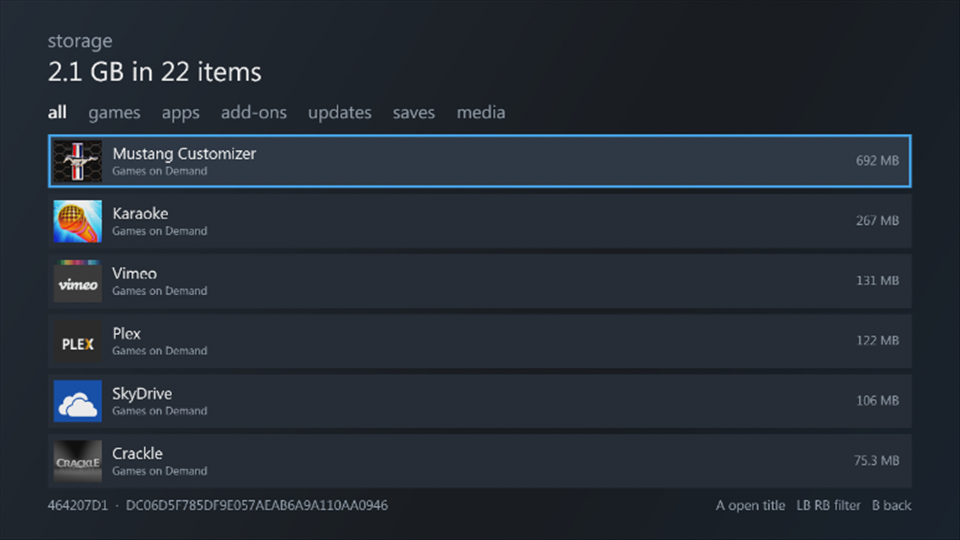
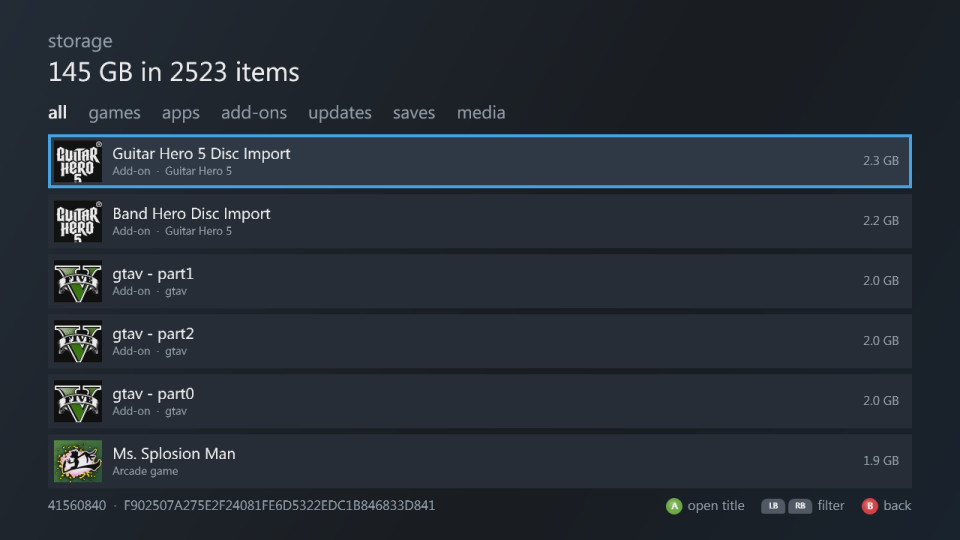
Update the user docs and take their screenshots on a console
The screenshots are new, from a console, with games as covers and as a
list, a title's achievements and content, media, the theme page and
editor, storage and the welcome screen. The docs now cover the themes and
theme editor, a theme and library for each profile, the pause before
moving past a section's end, X and Y on me, a title page's lists, what a
start reads and what Refresh library does, and the Data folder's files.

diff --git a/docs/settings.md b/docs/settings.md
@@ -1,5 +1,7 @@
 # Settings
 
+![Settings](images/settings.png)
+
 | Setting | |
 |---|---|
 | **Theme** | The wallpapers and colours: see [Themes](#themes) |
@@ -10,7 +12,7 @@
 | **Start the FTP server with Silverdash** | Starts it whenever Silverdash360 starts |
 | **FTP user name**, **FTP password** | What FTP clients log in with |
 | **Welcome screen** | The basic settings, as at the first start: see [Welcome screen](#welcome-screen) |
-| **Refresh library** | Reads every package again, for when something is missing or out of date |
+| **Refresh library** | Reads every package again, add-ons, saves and videos too, for when something is missing or out of date |
 | **Sign in** | Signs a profile in |
 | **System version**, **Language**, **Console time** | The console's |
 | **Running as title**, **Running from** | The title ID Silverdash360 runs as, and its folder |
@@ -20,26 +22,35 @@
 
 ## Welcome screen
 
-The welcome screen opens at the first start with the basic settings: whether the FTP server starts with Silverdash360 and, once it does, its user name and password. It opens again after an update that adds basic settings, with those marked **new**. Continue or B goes on to Silverdash360. **Welcome screen** in settings opens it any time.
+![Welcome](images/welcome.png)
+
+The welcome screen, **Welcome to Silverdash360**, opens at the first start with the basic settings: whether the FTP server starts with Silverdash360 and, once it does, its user name and password. It opens again after an update that adds basic settings, with those marked **new**. Continue or B goes on to Silverdash360. **Welcome screen** in settings opens it any time.
 
 ## Themes
 
-The theme follows the console dashboard's own by default, so your wallpapers come with you. **Theme** lists the themes built into the console's dashboard and those installed on the console; A uses one. The built-in themes (Spectrum, Day and Night) are read from the console's own dashboard files, so they're the ones your dashboard version has; the dashboard's Xbox 360 theme isn't among those files, so Silverdash360 shows its own colours for it. A theme's four wallpapers go to the sections as they went to the first dashboard's blades: the first (Xbox Live's) to home, apps and me, the second to games, the third to media and the fourth (System's) to settings. Its colours go to Silverdash360's. **Silverdash** is Silverdash360's own colours and no wallpaper. **Blades (Default)** and **Blades (Carbon)** are colours after the two styles of the first Xbox 360 dashboard, with no wallpaper; as its blades did, each section has a colour of its own: me is Xbox Live's orange, games green, media blue, apps the Marketplace blade's and settings the System blade's. Picture themes made in the Xbox Dashboard from your own pictures work too. If the dashboard's theme for your profile is a theme package that's no longer installed, such as one from an older dashboard, Silverdash360 shows its own colours and settings names the missing theme.
+![Theme](images/theme.png)
+
+The theme follows the console dashboard's own by default (**Same as the Xbox Dashboard**), so your wallpapers come with you. **Theme** lists the themes built into the console's dashboard and those installed on the console; A uses one. Each profile keeps the theme it picked, and so does nobody signed in: signing out shows the one picked with nobody signed in, or Silverdash360's own colours if none was. The built-in themes (Spectrum, Day and Night) are read from the console's own dashboard files, so they're the ones your dashboard version has; the dashboard's Xbox 360 theme isn't among those files, so Silverdash360 shows its own colours for it. A theme's four wallpapers go to the sections as they went to the first dashboard's blades: the first (Xbox Live's) to home, apps and me, the second to games, the third to media and the fourth (System's) to settings. Its colours go to Silverdash360's. **Silverdash** is Silverdash360's own colours and no wallpaper. **Blades (Default)** and **Blades (Carbon)** are colours after the two styles of the first Xbox 360 dashboard, with no wallpaper; as its blades did, each section has a colour of its own: me is Xbox Live's orange, games green, media blue, apps the Marketplace blade's and settings the System blade's. Picture themes made in the Xbox Dashboard from your own pictures work too. If the dashboard's theme for your profile is a theme package that's no longer installed, such as one from an older dashboard, Silverdash360 shows its own colours and settings names the missing theme.
 
 ## Theme editor
 
 **Edit current theme**, the first row of **Theme**, makes a theme of your own, starting from the one shown:
+
+![Theme editor](images/theme-editor.png)
+
 
 - **Colours**: the accent, secondary text, panels, the selected panel and the three colours of the background. A on one opens a grid of colours; the dashboard takes each on as you move, A keeps it and B puts the old one back.
 - **Wallpapers 1 to 4**: for home, apps and me, for games, for media, and for settings, as a theme's are. A wallpaper can be none, a JPEG or PNG picture on the console's drives (up to 4 MB), or any wallpaper of the built-in and installed themes, shown behind the list as you pick.
 - **Save** makes it the custom theme of the profile signed in (or of nobody signed in, when nobody is) and uses it. **Save for nobody signed in too** also keeps it for when nobody is signed in.
 - **Save as...** asks for a name and keeps it in Silverdash360 for everyone on the console; it's listed in **Theme** under that name. X on a saved theme there, twice, deletes it.
 
-B leaves without saving and puts the colours back. Once saved, **Custom theme** in the theme list picks it again; for a profile without one, it's the console dashboard's theme.
+B leaves without saving and puts the colours back. Once saved, **Custom theme** in the theme list picks it again; it's listed for a profile that has one, or for nobody signed in when there's one for nobody.
 
 ## Storage
 
-Everything stored on the console, largest first, by kind: games, apps, add-ons, title updates, saves and media. LB and RB filter it. A opens the title a package belongs to.
+![Storage](images/storage.png)
+
+Everything stored on the console, largest first, by kind: games, apps, add-ons, title updates, saves and media. LB and RB filter it. A opens the title a package belongs to. Add-ons and saves are as Silverdash360 last read them: when you opened their title's page, or at the last **Refresh library**.
 
 ## File browser
 

diff --git a/README.md b/README.md
@@ -6,10 +6,12 @@ A dashboard for the Xbox 360. It lists the games and apps on your console, with 
 
 | | |
 |---|---|
-| ![Home](docs/images/home.png) | ![Apps as covers](docs/images/apps-covers.png) |
-| Home: recently played and the apps | A shelf of covers |
-| ![Apps as a list](docs/images/apps-list.png) | ![Title details](docs/images/title-details.png) |
-| The same shelf as a list | A title's details, stored content and achievements |
+| ![Home](docs/images/home.png) | ![Games as covers](docs/images/games-covers.png) |
+| Home: recently played and the apps | A shelf of covers, with a letter heading each letter |
+| ![Games as a list](docs/images/games-list.png) | ![Title details](docs/images/title-details.png) |
+| The same shelf as a list | A title's details and achievements |
+| ![Media](docs/images/media.png) | ![Theme](docs/images/theme.png) |
+| The drives, media servers and downloaded videos | Themes, and a theme editor of your own |
 
 ## Features
 
@@ -17,8 +19,8 @@ A dashboard for the Xbox 360. It lists the games and apps on your console, with 
 - **Jump back in** with the titles you played last, and the disc in the drive first.
 - **Covers or a list**, sorted and filtered as you like, with letters to jump through a long shelf.
 - **Media**: music, videos and pictures from the drives, data discs and DLNA media servers such as Plex, and the videos you downloaded from Xbox LIVE.
-- **Your profile**, gamerscore and achievements.
-- **Themes**: the wallpapers of the console dashboard's themes.
+- **Your profile**, gamerscore and achievements. Each profile has its own saves, theme and played titles, and it works with nobody signed in too.
+- **Themes**: the console dashboard's themes with their wallpapers, its built-in Spectrum, Day and Night, the first dashboard's Blades colours, and a theme editor to mix your own.
 - **Search**, **storage**, a **file browser** and an **FTP server**.
 - **Updates itself** when there's a new version.
 
@@ -41,10 +43,11 @@ The [installation guide](https://digiex.github.io/Silverdash360/install/) has ea
 | A | Play on home; open or select elsewhere |
 | B | Back |
 | START | A title's details on home |
-| X | Search |
-| Y | Open or close the disc tray on home; covers or a list on the shelves |
+| X | Search; your friends on me |
+| Y | Open or close the disc tray on home; covers or a list on the shelves; sign in on me |
 | BACK | A shelf's options |
-| LB, RB | Switch sections |
+| LB, RB | Switch sections at once |
+| Left, right at a section's end | The next section, after a short pause |
 | LT, RT | A screen back or forward |
 
 More in the [documentation](https://digiex.github.io/Silverdash360/getting-around/).
@@ -61,4 +64,4 @@ It's built with [Silverlight360](https://github.com/Digiex/Silverlight360), whic
 
 ## Trademarks
 
-Xbox, Xbox 360, Xbox LIVE and Silverlight are trademarks of the Microsoft group of companies. Plex and the names and art of other apps shown in the screenshots belong to their owners. Silverdash360 isn't affiliated with or endorsed by any of them.
+Xbox, Xbox 360, Xbox LIVE and Silverlight are trademarks of the Microsoft group of companies. Plex, Bungie and the names and art of the other games, apps and themes shown in the screenshots belong to their owners. Silverdash360 isn't affiliated with or endorsed by any of them.

diff --git a/docs/getting-around.md b/docs/getting-around.md
@@ -1,6 +1,8 @@
 # Getting around
 
-Silverdash360 has six sections across the top: **home**, **games**, **apps**, **media**, **me** and **settings**. LB and RB go from one to the next, as does moving past the left or right end of a section. The bar at the bottom says what the buttons do where you are.
+Silverdash360 has six sections across the top: **home**, **games**, **apps**, **media**, **me** and **settings**. LB and RB go from one to the next at once, and round from settings to home. Moving past the left or right end of a section goes to the next one too, but only as a move of its own: holding the D-pad or the stick, or pressing it again and again to run through a shelf, stops at the shelf's end, and a press after a short pause goes on. The bar at the bottom says what the buttons do where you are.
+
+![Home](images/home.png)
 
 ## Controls
 
@@ -10,8 +12,8 @@ Silverdash360 has six sections across the top: **home**, **games**, **apps**, **
 | A | Play on home; open or select elsewhere. On the games and apps shelves, the shelf's options choose whether A plays or shows a title's details |
 | B | Back |
 | START | The other of A: a title's details on home; on the shelves, play or details, whichever A isn't |
-| X | Search |
-| Y | Open or close the disc tray on home; switch between covers and a list on the shelves; sign in on the profile |
+| X | Search; your friends on me |
+| Y | Open or close the disc tray on home; switch between covers and a list on the shelves; sign in on me |
 | BACK | The shelf's options on the games and apps shelves |
 | LB, RB | Switch sections, and lists and filters on other pages |
 | LT, RT | A screen back or forward on the shelves |
@@ -22,11 +24,17 @@ Silverdash360 has six sections across the top: **home**, **games**, **apps**, **
 
 ## Me
 
-Your gamertag, gamer picture, gamerscore, motto and zone, and the titles you've played with your progress in each. Y signs in if nobody is.
+Your gamertag, gamer picture, gamerscore, motto and zone, and the titles you've played with your progress in each. A shows a title's details, X your friends, and Y signs in, or signs in another profile.
+
+![Me](images/profile.png)
+
+Silverdash360 works with nobody signed in: the games, apps and media are the console's. Signing in or out, here or from the Guide, shows that profile's saves, theme and played titles straight away, without reading the whole console again. Each profile keeps its own, and so does nobody signed in.
 
 ## Search
 
 X opens search from home and the shelves. Type with the on-screen keyboard (A types, X deletes, Y adds a space), and the results update as you type: titles by name, publisher or title ID. Move right to the results.
+
+![Search](images/search.png)
 
 ## When things are busy
 

diff --git a/docs/index.md b/docs/index.md
@@ -4,22 +4,27 @@ Silverdash360 is a dashboard for the Xbox 360: it lists the games and apps on yo
 
 | | |
 |---|---|
-| ![Home](images/home.png) | ![Apps as covers](images/apps-covers.png) |
-| Home: recently played and the apps | A shelf of covers |
-| ![Apps as a list](images/apps-list.png) | ![Title details](images/title-details.png) |
-| The same shelf as a list | A title's details, stored content and achievements |
+| ![Home](images/home.png) | ![Games as covers](images/games-covers.png) |
+| Home: recently played and the apps | A shelf of covers, with a letter heading each letter |
+| ![Games as a list](images/games-list.png) | ![Title details](images/title-details.png) |
+| The same shelf as a list | A title's details and achievements |
+| ![Media](images/media.png) | ![Profile](images/profile.png) |
+| The drives, media servers and downloaded videos | Your profile and the titles you've played |
 | ![Search](images/search.png) | ![Settings](images/settings.png) |
 | Search as you type | Settings |
+| ![Theme](images/theme.png) | ![Theme editor](images/theme-editor.png) |
+| Themes | The theme editor |
 
 ## What it does
 
 - **Games and apps**: everything installed on the hard drive and USB drives, Games on Demand, Arcade, Indie and demos, original Xbox games, and homebrew in `Apps` and `Games` folders, with box art and store details from the Xbox Marketplace. [Games and apps](games-and-apps.md)
 - **Jump back in**: the titles you played last, and the disc in the drive, on the home page.
 - **Media**: music, videos and pictures from the drives, data discs and DLNA media servers such as Plex, and the videos you downloaded from Xbox LIVE. [Media](media.md)
-- **Your profile**: gamertag, gamerscore and achievements.
-- **Themes**: the wallpapers of the console dashboard's themes, a section each. [Settings](settings.md#themes)
+- **Your profile**: gamertag, gamerscore and achievements. Each profile has its own saves, theme and played titles, and Silverdash360 follows you signing in and out from the Guide. It works with nobody signed in too. [Getting around](getting-around.md#me)
+- **Themes**: the console dashboard's themes with their wallpapers, its built-in Spectrum, Day and Night, the first dashboard's Blades colours, and a theme editor to mix your own, each profile with its own. [Settings](settings.md#themes)
 - **FTP server, file browser and storage**: the console's drives over the network, every file on them, and what takes the space. [Settings](settings.md)
 - **Updates**: it tells you when there's a new version and installs it. [Updating](updating.md)
+- **Welcome screen**: the basic settings at the first start, and the new ones after an update. [Settings](settings.md#welcome-screen)
 
 ## Getting started
 

diff --git a/docs/games-and-apps.md b/docs/games-and-apps.md
@@ -2,6 +2,11 @@
 
 The **games** and **apps** sections are shelves of everything installed on the console's hard drive and USB drives. Each title has its box art from the Xbox Marketplace, where the console's own dashboard gets it, or the package's own picture.
 
+| | |
+|---|---|
+| ![Games as covers](images/games-covers.png) | ![Games as a list](images/games-list.png) |
+| ![Apps as covers](images/apps-covers.png) | ![Apps as a list](images/apps-list.png) |
+
 ## What's listed
 
 - **Xbox 360 games**: installed discs, Games on Demand and Arcade, Indie and XNA games and demos.
@@ -10,6 +15,8 @@ The **games** and **apps** sections are shelves of everything installed on the c
 - **Homebrew**: a `default.xex` in each folder of a drive's `Apps` and `Games` folders (`Hdd1`, `Usb0` to `Usb2`), and `.xex` files right in `Apps`. Each is named after its folder, unless a package or your profile names it.
 - **QuickBoot shortcuts** show as the app or game they start; a shortcut and the folder it starts are listed once.
 - **Titles with nothing to start**, such as a game with only saves or add-ons left, are hidden until you show them with the shelf's options.
+
+Silverdash360 keeps what it read, so it starts quickly. At a start it shows the library it saved and looks only for what starts games and apps, and for themes, as they come and go; a title's add-ons, updates and saves are listed again when you open its page. **Refresh library** in settings reads everything again.
 
 Box art and store details are downloaded in the background and kept in the `Data\Art` folder, so they're there without the internet afterwards. A title the Marketplace doesn't know gets a cover of its kind with its icon or its initials.
 
@@ -33,7 +40,11 @@ BACK on a shelf opens its options. A changes a setting, X steps it back, and B i
 
 ## A title's details
 
-A title's page has its backdrop, the store's description, developer, genre and release date, what's stored for it (the game, title updates, add-ons, saves) with sizes, and your achievements in it. **Play** starts it.
+A title's page has its backdrop, the store's description, developer, genre and release date, and two lists that LB and RB switch between: **achievements**, your progress in it, when you're signed in and have played it, and **content**, what's stored for it (the game, title updates, add-ons, saves) with sizes. **Play** starts it, with **Play from disc** when its disc is in the drive and a **Play disc** for each disc of a game with several; **Achievements** and **Stored content** go to the lists.
+
+| | |
+|---|---|
+| ![Achievements](images/title-details.png) | ![Stored content](images/title-content.png) |
 
 ## Discs
 

diff --git a/docs/troubleshooting.md b/docs/troubleshooting.md
@@ -12,10 +12,15 @@
 - **Refresh library** in settings reads every package again.
 - Homebrew is looked for in the `Apps` and `Games` folders of `Hdd1` and `Usb0` to `Usb2`, a folder each with a `default.xex` in it.
 
+## An add-on, save or downloaded video is missing
+
+A start looks only for new games, apps and themes. A title's add-ons, updates and saves are read again when you open its page; **Refresh library** in settings reads everything, downloaded videos too.
+
 ## The box art or the theme is missing
 
 - Box art comes from the Xbox Marketplace the first time a title is shown, so the console needs the internet once. A title the Marketplace doesn't have gets a cover of its kind.
-- Right after a start, the theme shows once the library has been read.
+- The theme in use is kept, so it shows straight away at a start. The first time, or after picking another, it shows once its package has been found.
+- Each profile has its own theme, and so has nobody signed in: see [Themes](settings.md#themes).
 
 ## A video doesn't play
 
@@ -32,8 +37,12 @@ Silverdash360 keeps its settings, the library it read, the box art and its logs 
 | In `Data` | |
 |---|---|
 | `settings.txt` | Your shelf options and other settings |
+| `library.bin` | The console's games, apps and other packages it read, the same for every profile, so it starts quickly |
+| `Profiles` | Each profile's own packages, such as its saves and themes, a file per profile |
 | `ThemeChoice` | The theme each profile picked, and the one for nobody signed in |
-| `library.bin` | The library it read, so it starts quickly |
+| `CurrentTheme` | The theme in use for each profile, so it shows straight away |
+| `CustomTheme` | The themes made in the theme editor, each profile's and nobody signed in's |
+| `SavedThemes` | The themes saved with **Save as...**, for everyone |
 | `Art` | The box art and store details it downloaded |
 | `Logs` | What it did: `silverdash.log` for this run, `silverdash.log.last` for the one before |
 

diff --git a/docs/media.md b/docs/media.md
@@ -2,9 +2,12 @@
 
 The **media** section lists where your music, videos and pictures are:
 
+![Media](images/media.png)
+
+
 - **The drives**: the hard drive, USB drives and a data disc.
 - **Media servers** on your network that share over DLNA, such as Windows Media Player, Plex and Kodi. They're looked for when you stay on the media section.
-- **Downloaded videos**: the movies, TV and trailers you downloaded from Xbox LIVE, with their pictures.
+- **Downloaded videos**: the movies, TV and trailers you downloaded from Xbox LIVE, with their pictures. A video downloaded since the last **Refresh library** in settings shows after the next one.
 - **Play disc**, with a DVD movie or a game in the drive.
 
 A source opens as folders. LB and RB filter them: everything, music, videos or pictures.
